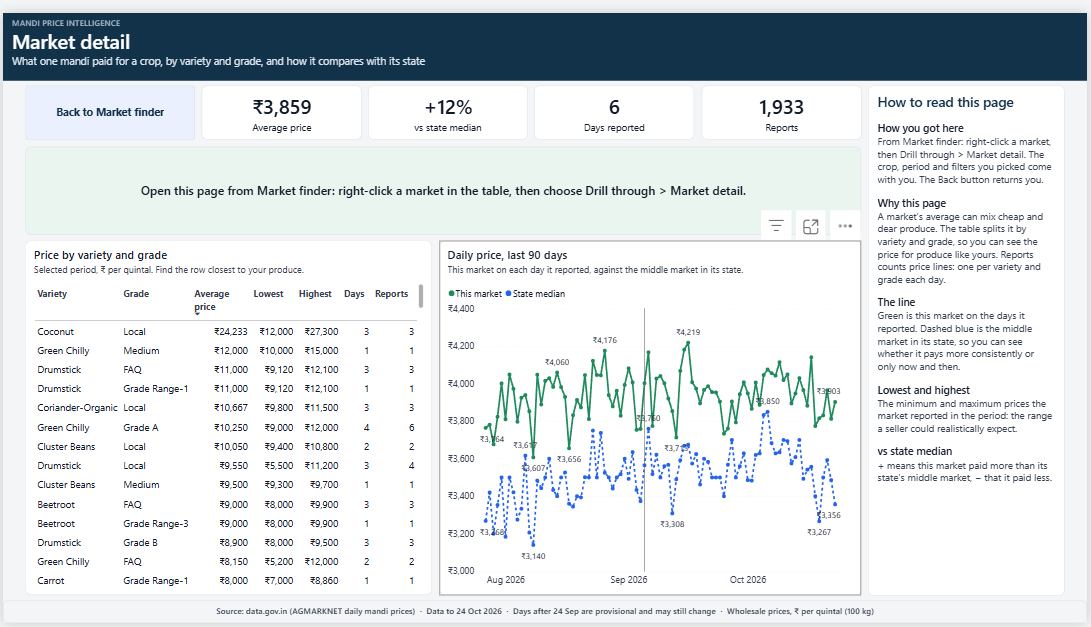
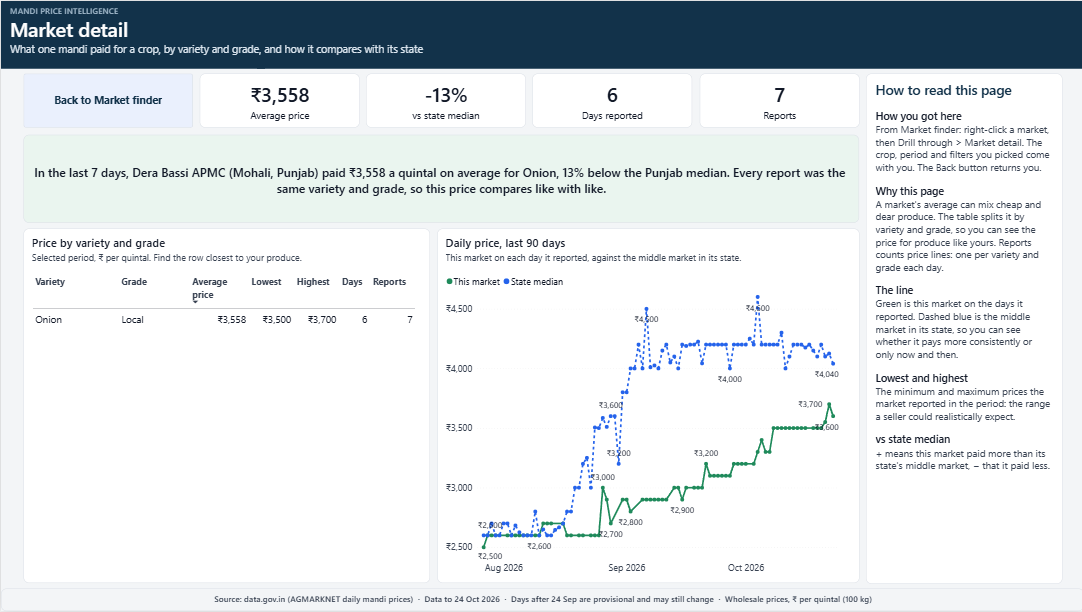
Add the complete guide and the Market detail drillthrough screenshot

Changed region(s): [[0.0, 0.0, 1.0, 0.9935], [0.671, 0.4967, 0.7015, 0.5278]]

diff --git a/docs/project_guide.md b/docs/project_guide.md
@@ -1,0 +1,273 @@
+# Mandi Price Intelligence: The Complete Guide
+
+Vikash Mishra · 26 October 2026
+
+A plain-language guide to everything in this project: what was built, why each concept was chosen, the problems solved, and how it would grow in a company. For the technical details, see the [README](../README.md) and the [decision log](decisions.md).
+
+## The project on one page
+
+Mandi Price Intelligence turns India's official daily mandi prices into answers a farmer, trader or analyst can act on, and proves every number is complete and correct.
+
+**The problem.** About 3,000 government wholesale markets (mandis) report crop prices every day on data.gov.in. The data is public but hard to use: messy names, prices stored as text, late uploads, wrong units, and an API that silently loses rows when read page by page. Most sellers only know the price at the one mandi they visit.
+
+**Who it helps.**
+
+- **Farmers and sellers:** which mandi pays the best price for my crop, and how much evidence is behind that price?
+- **Traders and buyers:** which states are cheapest, and is today's price normal for the season?
+- **Analysts and policy teams:** how are staple prices moving across India, week by week?
+
+**What was built.**
+
+| Part | What it does | Tools |
+| --- | --- | --- |
+| Extraction | Downloads every day state by state and proves it is complete | Python, laptop scheduler |
+| Lakehouse | Bronze (raw copy), silver (cleaned and checked), gold (report tables) | Databricks, Delta Lake, PySpark, SQL |
+| Orchestration | One daily job: bronze, then silver, then gold, with alerts | Databricks Jobs |
+| Dashboard | Seven pages, each answering one business question | Power BI (PBIP), DAX, Power Query |
+| CI/CD | Every code change checked automatically; the job deployed as code | GitHub Actions, Databricks Asset Bundles |
+
+**Results.**
+
+- Over 7 million price rows, every day proved complete before it is used.
+- A normal day's run reads 18% of the data a full rebuild does, and gives the identical result.
+- Real findings: onion prices tripled in a year; the same crop sold for twice as much in Kerala as in Madhya Pradesh in the same week.
+
+## How it works end to end
+
+A price travels through seven steps, and at each one the system proves nothing was lost before passing it on.
+
+![How it works: source to dashboard, with CI](images/guide_architecture.png)
+
+**The journey of one onion price.**
+
+1. **Reported.** A mandi in Kerala reports that onion sold at ₹9,800 a quintal today. It appears on data.gov.in.
+2. **Downloaded and proved.** At night the laptop asks for Kerala's prices, then every other state's. The day counts as done only when the states add up to the day's official total. If not, it is retried the next night.
+3. **Uploaded.** Every 2 hours, finished days (and fresh versions of recent days) go to a Databricks volume, each file checked after upload.
+4. **Bronze.** The daily job loads only the new files, exactly as received, and counts every row in.
+5. **Silver.** Names are standardised ("Keralam" becomes Kerala), text becomes numbers and dates, impossible prices are quarantined with a reason, copies are removed, and unusual prices are flagged. Every row is accounted for. Only months that received new data are rebuilt.
+6. **Gold.** The price joins a star schema and feeds weekly and monthly medians for Kerala and All India. Checks stop the run if anything doesn't tie out.
+7. **Dashboard.** Power BI shows Kerala's market at the top of Market finder for onion, with "reported on 5 of 7 days" beside it.
+
+The code for steps 4 to 6 lives in GitHub. Every change is checked by CI before the next run uses it.
+
+## Concepts used, in plain words
+
+Every concept below solved a real problem in this project; none was added for show.
+
+### Data engineering
+
+| Concept | In plain words | Why it was needed here | Everyday comparison |
+| --- | --- | --- | --- |
+| **Medallion architecture** (bronze, silver, gold) | Keep data in three stages: raw copy, cleaned, ready for reports | A bad cleaning rule can be fixed and re-run from the untouched raw copy | Raw ingredients, prepped ingredients, plated dish |
+| **Completeness proof** | Before a day counts as done, its parts must add up to the official total | The API dropped rows silently while the counts still matched | Counting the cash drawer against the till receipt |
+| **Idempotency** | Running a step twice gives the same result as running it once | Jobs retry after failures; a retry must never double the data | Pressing a lift button twice still calls one lift |
+| **Reconciliation** | Every row used must be accounted for: clean, quarantined or a removed copy | Proves nothing was lost or invented between stages | A bank statement that balances to the rupee |
+| **Quarantine** | Broken rows are set aside with the reason, not deleted | Bad rows can be inspected and fixed; nothing disappears quietly | A returns shelf with a note on each item |
+| **Incremental processing** | Rebuild only the months that changed, not all history | Daily work stays small however long the history grows | Re-checking only the pages of a ledger that were edited |
+| **Change Data Feed** | Delta keeps a list of which rows changed in each version | Silver asks "what changed since last time?" instead of reading everything | A shop's delivery log instead of a full stock count |
+| **Atomic replace** (`replaceWhere`) | Swap a whole month in one transaction | Readers never see a half-written month | Replacing a shelf's stock while the shop is closed |
+| **Rules fingerprint** | A hash of the cleaning rules; if it changes, rebuild everything | Old and new months never follow different rules | A recipe version number on every batch |
+| **Provisional data** | Recent days are shown but marked as still changing | Mandis keep uploading for up to a month | A draft stamp on a report |
+| **Liquid clustering** | Store rows sorted by date so a month's files sit together | Reading one month opens only that month's files | Filing invoices by month in separate folders |
+| **Star schema** | One central table of facts linked to lookup tables (market, crop, date) | Fast, simple reports; each name stored once | A sales register with separate customer and product lists |
+| **Surrogate keys** (hashed) | Each market or crop gets a fixed number made from its name | The same market gets the same key on every rebuild | A permanent roll number |
+| **Aggregates** (weekly, monthly) | Pre-computed summaries for trends | Trend charts read small tables, not millions of rows | Monthly totals at the bottom of a ledger |
+
+### Analytics and reporting
+
+| Concept | In plain words | Why it was needed here |
+| --- | --- | --- |
+| **Median, not average** | The middle price: half the markets paid more, half less | One market entering prices in the wrong unit cannot drag it |
+| **Modal price** | The price most of a crop sold at in a market that day | The most typical price, reported by every mandi |
+| **ISO weeks** | Weeks run Monday to Sunday; week 1 holds the year's first Thursday | 29 Dec 2025 belongs to Wk 01 of 2026, so seasons line up across years |
+| **Dynamic date table** | The calendar covers only the years the data has | Smaller model; time functions work on whole years |
+| **Self-writing summaries** | DAX measures that write a sentence from the current numbers | The headline always matches the data, for any crop picked |
+| **Evidence beside a number** | Show how many days a price rests on | A best price from 2 reports is flagged, not trusted blindly |
+| **Signs, not colours, for direction** | + rose, − fell; colour only for "check this" | A rise helps sellers and hurts buyers, so colour would imply a judgement |
+| **Drillthrough** | Right-click a market to open its detail page, filters carried over | One click from "which market?" to "what did it pay, by variety?" |
+| **PBIP** | The report saved as text files instead of one binary file | Every change shows in Git and can be checked automatically |
+
+### Engineering practice
+
+| Concept | In plain words | Why it was needed here |
+| --- | --- | --- |
+| **CI (continuous integration)** | Every code change is tested automatically on GitHub | Broken code is caught minutes after a push, before it touches data |
+| **CD and infrastructure as code** | The Databricks job is defined in a file and deployed by a command | The job can be rebuilt exactly; changes are reviewed, not clicked |
+| **Secret management** | Keys and tokens live in local credential stores, never in code | The repository is public; a scanner blocks leaks |
+| **Decision log** | Every design choice written down with options and trade-offs | Anyone can see why, not just what |
+
+## Real problems and how they were solved
+
+Each problem below was found by measuring, not guessing, and each fix is now guarded by a check or a test.
+
+| # | Problem | How it was found | Fix | The lesson |
+| --- | --- | --- | --- | --- |
+| 1 | **The API lost rows silently.** Reading page by page, 94 of 228 days had real rows replaced by copies, yet every day's count still matched | Profiling found duplicates the totals hid | Download one state per request, no paging; a day passes only if the states add up to the day's total and no row repeats | Matching counts are not proof; check content too |
+| 2 | **"Duplicates" were a trailing space.** 2,830 rows differed only by a space in the market name | Silver found copies the downloader's byte check missed | Trim names in silver | Clean before comparing |
+| 3 | **"Per quintal" was not always per quintal.** Some markets entered prices per bunch or per piece | The same markets were flagged every day; multiplying back revealed the unit | Split one flag into two: unit-suspect series (kept for their own trend) and one-off outliers (left out) | One symptom can hide two causes with different business meanings |
+| 4 | **A misspelt state.** 65 to 111 rows a day came under "Uttrakhand" | A diagnostic fetched a whole day once and compared it state by state | Ask for that spelling too; map it to Uttarakhand in silver | Make the check that finds a gap reusable |
+| 5 | **Duplicates that are really in the source.** 3 Nov 2025 held 19 identical rows in the API's own answer | Same diagnostic | Accept them only if a single whole-day request has exactly the same rows the same number of times; silver keeps one copy | Prove a rule's exception, don't just relax the rule |
+| 6 | **Cloud servers were refused.** data.gov.in blocks requests from cloud computers | Tested from Colab and Databricks: both refused | Download on a laptop in India, upload to Databricks | Test the constraint before designing around it |
+| 7 | **A 5.5-hour time shift.** Gold stored a Python time; Spark read it in a different time zone | Local test runs compared timestamps | Keep times as Spark-formatted text | Never mix two systems' clocks |
+| 8 | **A setting that only fails on serverless.** `spark.conf.get` of an unknown key is refused on Databricks serverless | The first real job run failed | Read it inside a safe try/except | Local tests prove logic, not the platform |
+| 9 | **Week 1 in the wrong year.** 29 Dec 2025 showed as "2025, week 1" on the Seasons chart | Spotted on the chart | Add a week-year column (the year of the week's Thursday) and "Wk 01" labels in Power Query | Pair an ISO week with its ISO year |
+| 10 | **Colours that confused.** Green arrows pointing down; one number two colours | User review of the dashboard | + and − signs only; colour kept for "check this" | One colour, one meaning, everywhere |
+| 11 | **A "best price" from 2 reports.** ₹10,000 for onion rested on 2 of 7 days | Asked how much evidence sat behind the headline | The sentence now says "reported on 2 of 7 days"; thin evidence is orange in the table | Show the evidence beside the number |
+| 12 | **Stale code in the workspace.** A Pull in Databricks hit merge conflicts | The Git folder had old local edits and Windows line endings | Discard local edits; remove the forced Windows line-ending rule | Treat a deployed copy as read-only |
+
+A thirteenth case came from CI itself: on its first run the secret scan flagged the workspace address in two committed files. Both now hold placeholders, the real values stay only on the owner's computer, and the scan blocks them from returning.
+
+## Scenario playbook: what happens when…
+
+The design answers each common data problem with a specific mechanism, so nothing depends on someone noticing.
+
+### Data problems
+
+| Scenario | What the system does | Mechanism |
+| --- | --- | --- |
+| A mandi uploads prices late (up to a month) | The last 30 days are re-downloaded nightly and shown as provisional; a day turns final when it stops changing | Provisional data, refresh window |
+| A day is missing or only half downloaded | It has no "done" marker, so the next run downloads it again | Completeness proof, markers |
+| The same report arrives twice | Exact copies are removed in silver and counted | De-duplication, reconciliation |
+| The source itself repeats a row | Kept only if proven against a whole-day request; silver keeps one copy | Source-duplicate proof |
+| A price is impossible (under ₹1) or a date is broken | The row is quarantined with the reason | Quarantine |
+| A market enters prices per bunch or piece | Its series is flagged "another unit" and left out of comparisons | Unit-suspect flag |
+| A one-off typo (10 times off normal) | Left out of averages but counted | Outlier flag |
+| A new spelling of a state or market appears | The check lists unmapped names; one row added to the mapping fixes it | Alias table, diagnostics |
+| The API answers "ok" with no rows | Empty states are asked again, biggest first | Retry of empty answers |
+| The source changes its format mid-year | Profiling month by month shows the change; trimming keeps history continuous | Data quality monitoring |
+
+### Architecture problems
+
+| Scenario | What the system does | Mechanism |
+| --- | --- | --- |
+| A cleaning rule changes | The next run rebuilds every month automatically | Rules fingerprint |
+| Normal day with new data | Only the changed months are rebuilt | Change Data Feed, month replacement |
+| Nothing changed | Silver and gold skip in seconds | Skip logic |
+| A task fails halfway | The run stops before gold; email alert; retry once after 5 minutes; a retry can't duplicate | Task dependencies, idempotency |
+| Two runs start together | The second one waits in a queue | Job queueing |
+| The history grows to many years | Daily work stays the same size; one setting extends the history | Incremental design, clustering |
+| The laptop is off one night | The next run fills every gap, however old | Gap filling |
+| A code change breaks a rule | CI fails within minutes, before the job runs on data | CI pipeline tests |
+| A dashboard edit breaks a visual | CI names the file and the problem | Power BI checks |
+| A token is pasted into code by mistake | The secret scan fails the commit | gitleaks |
+| The job is deleted or a workspace is rebuilt | `databricks bundle deploy` recreates it from the repository | Asset Bundle |
+
+## Business value
+
+The platform turns a public but unusable dataset into decisions people can trust, and the trust comes from proof, not from promises.
+
+| Who | Decision it supports | Page | Example from the data |
+| --- | --- | --- | --- |
+| Farmer selling a crop | Where to sell, and whether that price is dependable | Market finder, Market detail | Onion: ₹9,800 at Vadakkenchery, reported on 5 of 7 days, against a middle market of ₹4,280 |
+| Trader or buyer | Which state to buy from | Cheapest states | Onion middle price ₹2,833 in Madhya Pradesh against ₹5,800 in Kerala, same week |
+| Retail or food company | Is today's price normal, or a spike to plan for? | Seasons | Onion in October 2026 is 190% above October 2025 |
+| Analyst or policy team | Which crops are moving most, nationally | Price pulse | Biggest 4-week movers among crops sold in 50+ markets |
+| Data team | Can we trust today's numbers? | Data health | Freshness, quarantine rate, reconciliation on every run |
+
+**Why trust is the real product.** A wrong price that looks right costs more than no price: a farmer can hire a truck for it. That is why every day is proved complete, every row is reconciled, recent figures are labelled provisional, and every headline shows its evidence.
+
+**Why the engineering matters to the business.**
+
+- **Lower running cost:** a normal day processes a fraction of the data, so compute bills grow with change, not with history.
+- **Faster fixes:** CI catches a broken change in minutes, not after a bad morning report.
+- **Less key-person risk:** the job is code, the decisions are written down, and every check is automated.
+- **Audit-ready:** each run logs what it read, wrote, removed and why.
+
+## Measured efficiency
+
+A normal day's run read 18% of the rows a full rebuild reads and produced exactly the same tables, measured on 25 Oct 2026 on Databricks serverless.
+
+| Run | Why it ran | Months rebuilt | Silver rows read | Silver time | Gold time |
+| --- | --- | --- | --- | --- | --- |
+| Full rebuild | A cleaning rule changed (the Uttrakhand spelling) | All | 7,070,715 | 161.2 s | 67.6 s |
+| Incremental | 37 newly arrived days | 3 | 1,292,819 (18%) | 85.8 s (53%) | 41.3 s (61%) |
+| Skip | Nothing changed | 0 | 0 | about 11 s | about 7 s |
+
+**Why time falls less than rows.** Every run has a fixed cost of about 30 to 40 seconds: reading the change feed, the reconciliation checks, and starting compute. As history grows, a full rebuild keeps getting slower, while a normal day stays about the same, so the saving widens every month.
+
+**How we know the result is identical.** A test runs the real silver and gold notebooks on local Spark: a full build, new data (days turning final, a newer provisional version, an incomplete upload, a backfilled older month), an incremental run, then a fresh full rebuild of the same data. All eight output tables match row for row. CI runs it on every push.
+
+**CI in practice.** On 26 Oct 2026, CI run #3 passed all four checks in 1 min 43 s: pipeline tests 1 min 39 s, Power BI checks 9 s, bundle check 7 s, secret scan 4 s. The first runs failed for two real reasons: the newest Databricks CLI used a pattern style Python could not read (fixed with the `regex` package), and the secret scan found the workspace address in a setup script and in the committed Power BI connection file (both replaced with placeholders).
+
+**What it costs.**
+
+| Item | Cost in this project | In a company |
+| --- | --- | --- |
+| Databricks | Free Edition, serverless | Paid per compute used; incremental runs keep it small |
+| GitHub Actions (CI) | Free (public repository) | Free minutes each month, then a small per-minute charge |
+| Power BI | Desktop, free | Pro or Fabric licences to share online |
+| Laptop extraction | Free | Would move to a cloud runner with an allowed network |
+
+## Alternatives, and when to choose them
+
+Each choice here fits this project's size and constraints; the table says when a different choice would be better.
+
+| Area | What this project uses | Alternative | Choose the alternative when… |
+| --- | --- | --- | --- |
+| Extraction | Laptop script on a schedule | Cloud function or Azure Data Factory / Fabric pipeline | The source accepts cloud requests and the pipeline must not depend on one computer |
+| Ingestion | Auto Loader (files) | Delta Live Tables / Lakeflow pipelines | You want declared quality rules ("expectations") and automatic lineage with less code |
+| Change detection | Change Data Feed + month replacement | Row-level `MERGE` on a business key | Rows have a stable natural key and updates are per row, not per month |
+| Change detection | Change Data Feed | Streaming (Structured Streaming) | Data arrives continuously and minutes-old figures matter |
+| Late data | Re-pull last 30 days, mark provisional | Slowly changing dimension / bitemporal tables | You must reproduce "what we knew on date X" for audits |
+| Storage | Delta Lake on Databricks | Microsoft Fabric lakehouse (OneLake) | The organisation is on Microsoft 365 and wants Power BI Direct Lake without imports |
+| Storage | Delta Lake | Snowflake or BigQuery warehouse | The team is SQL-first and wants a fully managed warehouse |
+| Modelling | Star schema | One wide flat table | A single report, small data, no reuse across subjects |
+| Power BI mode | Import (last 15 months of daily rows + aggregates) | DirectQuery or Direct Lake | Data must be seconds fresh or is too big to import |
+| Quality rules | SQL rules + reconciliation in notebooks | Great Expectations, dbt tests, DLT expectations | Many tables and teams need a shared rule library and reports |
+| Transformations | PySpark + SQL notebooks | dbt | The team prefers SQL models with built-in tests, docs and lineage |
+| Orchestration | Databricks Jobs | Airflow, Azure Data Factory | Pipelines span many systems beyond Databricks |
+| CI checks | Local Spark on GitHub | Integration tests on a Databricks test workspace | Serverless-only behaviour must be tested before release (costs compute) |
+| Deployment | Bundle deployed from the owner's laptop | Automatic deploy from GitHub with a service principal | A company with dev, test and prod workspaces and approvals |
+| Report publishing | Manual publish from Desktop | Power BI deployment pipelines or Fabric Git integration | Shared workspaces on Premium or Fabric capacity |
+| Central value | Median | Average, or weighted by arrivals | Volumes are reliable and you need the price per tonne actually traded |
+
+## Improvements: what a company version would add
+
+The foundations are in place; these steps would make it a production platform shared by a team.
+
+| Area | Improvement | What it adds |
+| --- | --- | --- |
+| Environments | Dev, test and prod workspaces; the bundle deployed to each | Changes are tried safely before they reach real users |
+| Code review | Branch protection: CI must pass and a reviewer approves before merging to main | No unreviewed change reaches production |
+| Testing | Integration test on a small Databricks test workspace | Catches platform-only issues local Spark can't |
+| Extraction | Move the download to a cloud runner on an allowed network | No dependence on one laptop being switched on |
+| Governance | Unity Catalog permissions, row-level security in Power BI, data lineage | The right people see the right data; impact of changes is visible |
+| Monitoring | Alerts on freshness, quarantine rate and row-count jumps, not only job failure | Silent data problems are flagged the same morning |
+| Publishing | Power BI service with scheduled refresh and deployment pipelines | Users open a link; no Desktop needed |
+| Insights | Price signals: unusual rises, best nearby mandi, prices below the government's minimum support price | Turns a dashboard into alerts people act on |
+| Forecasting | Seasonal price forecasts once several years of history load | Plan purchases and sales ahead of the season |
+| Data | Arrival volumes alongside prices | Weighted prices and supply-driven explanations |
+| Cost | Compute sizing and run-time budgets per job | Spending stays predictable as data grows |
+
+## Glossary
+
+| Term | Meaning in one line |
+| --- | --- |
+| AGMARKNET | The government system where mandis report daily prices, published on data.gov.in |
+| Asset Bundle | A Databricks project file (`databricks.yml`) that defines jobs as code |
+| Auto Loader | Databricks feature that loads only new files, remembering what it has seen |
+| Bronze | Raw copy of the data exactly as received |
+| Change Data Feed | Delta's record of which rows changed in each table version |
+| CI/CD | Automatic checks on every code change, and automatic, repeatable deployment |
+| DAX | Power BI's formula language for measures |
+| Delta Lake | Table format with transactions, history and time travel on cloud storage |
+| Drillthrough | Jump from a row to a detail page with the same filters |
+| Gold | Tables shaped for reports: star schema and aggregates |
+| Idempotent | Running it twice gives the same result as once |
+| ISO week | Monday-to-Sunday week; week 1 holds the year's first Thursday |
+| Lakehouse | Data lake storage with warehouse features (tables, transactions, SQL) |
+| Mandi | Government-regulated wholesale market where farmers sell crops |
+| Median | The middle value: half above, half below |
+| Modal price | The price most of a crop sold at in a market that day |
+| PBIP | Power BI project saved as text files, friendly to Git |
+| Power Query (M) | Power BI's data preparation language |
+| Provisional | Recent figures that may still change as reports arrive |
+| Quarantine | Holding area for rows that fail quality rules, with the reason |
+| Quintal | 100 kg; ₹4,500 a quintal = ₹45 a kg |
+| Reconciliation | Proof that every input row is accounted for in the output |
+| `replaceWhere` | Delta option that swaps a chosen slice (a month) in one transaction |
+| Serverless | Compute that Databricks starts and sizes for you, billed per use |
+| Silver | Cleaned, standardised and checked data |
+| Star schema | One fact table linked to dimension tables (market, crop, date) |
+| TMDL | Text format for a Power BI model's tables, columns and measures |
+| Unity Catalog | Databricks' governance layer: catalogs, schemas, tables, permissions |

diff --git a/README.md b/README.md
@@ -39,7 +39,7 @@ reconciliation at every step, and a daily automated job.
 18. [Lessons learned](#lessons-learned)
 19. [Data source](#data-source)
 
-**Deeper reading:** [design decisions](docs/decisions.md) ·
+**Deeper reading:** [the complete guide, in plain words](docs/project_guide.md) · [design decisions](docs/decisions.md) ·
 [data quality findings](docs/data_quality.md) · [incidents](docs/incidents/) ·
 [design FAQ: every why, why not, when](docs/design_faq.md) · [daily job](jobs/README.md)
 
